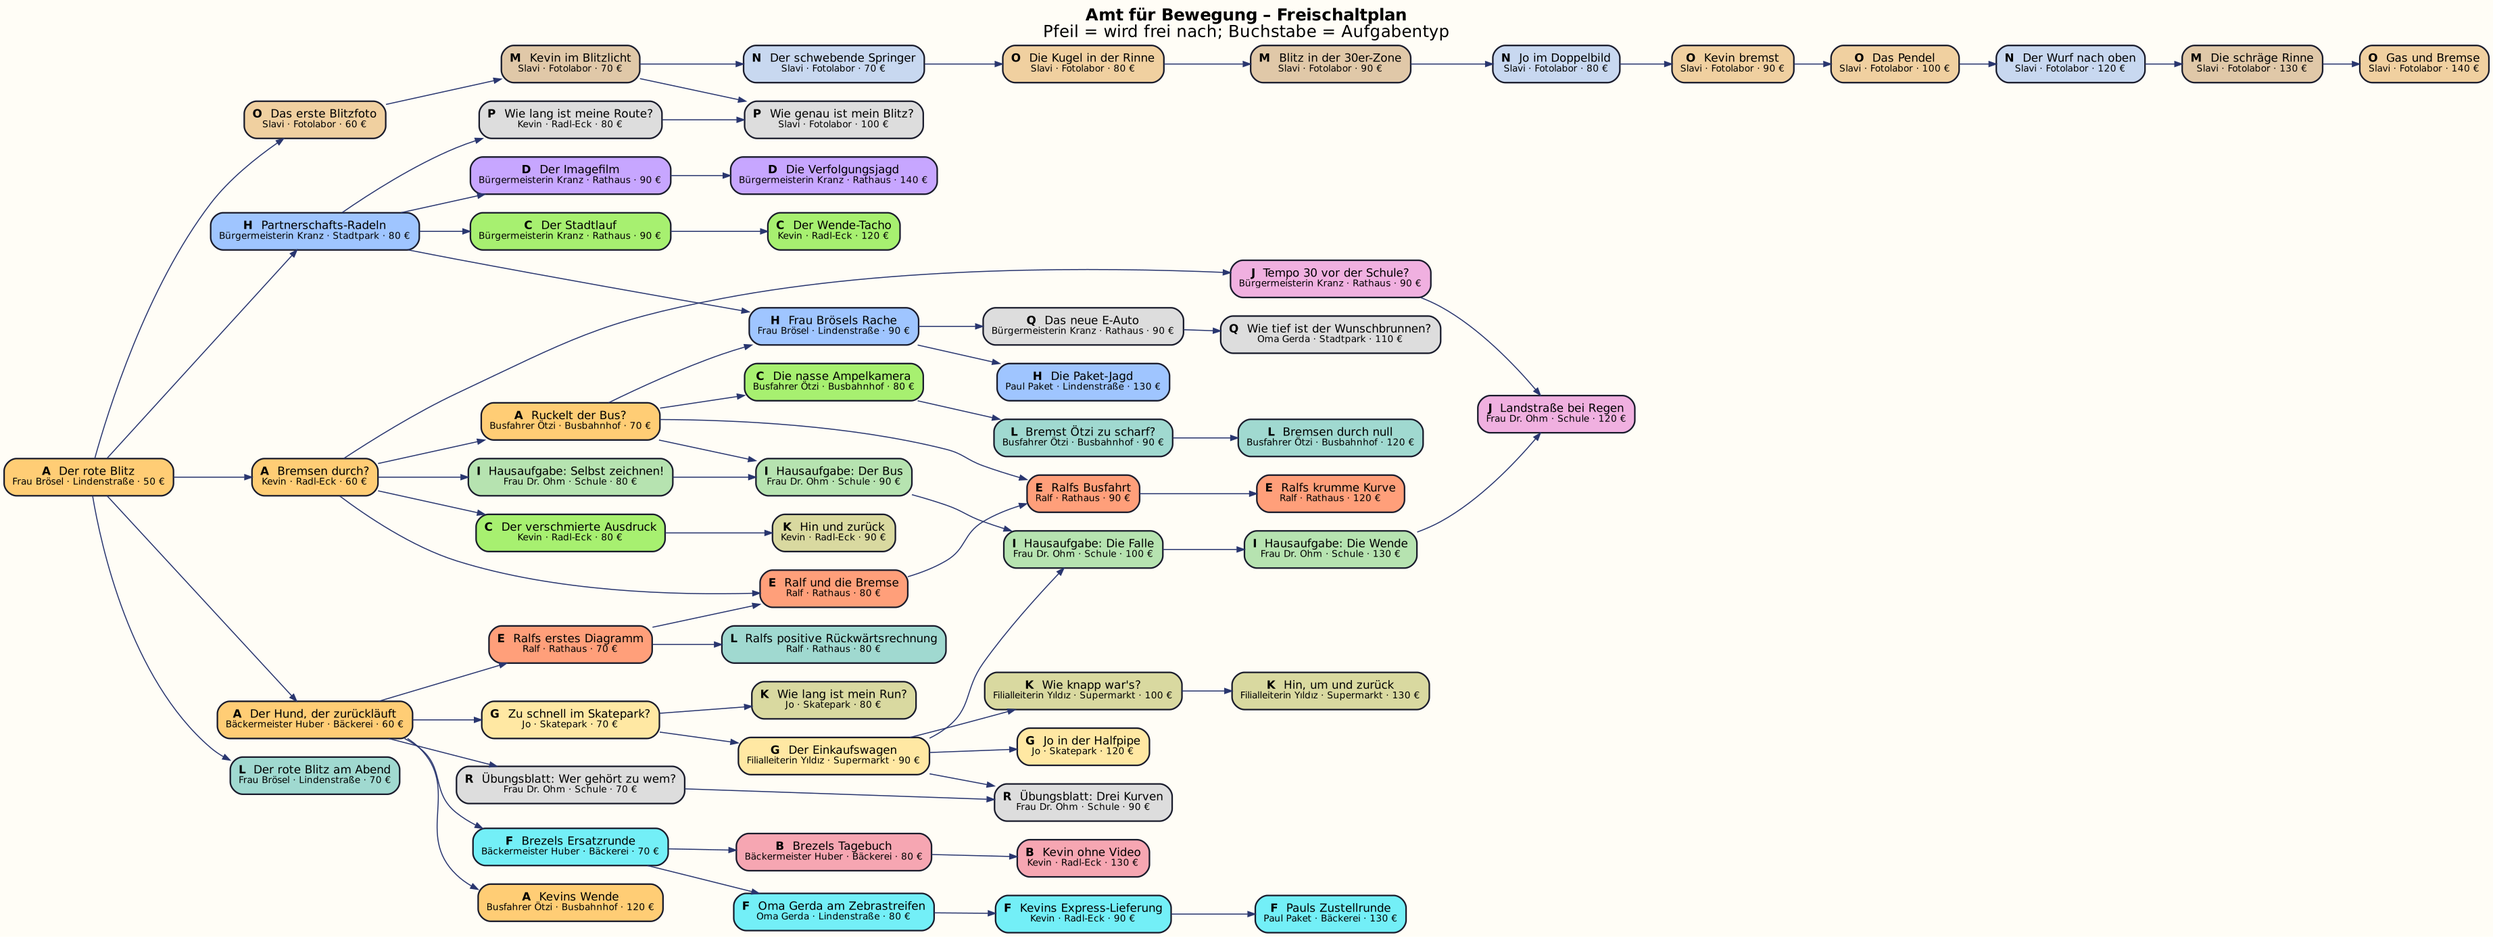
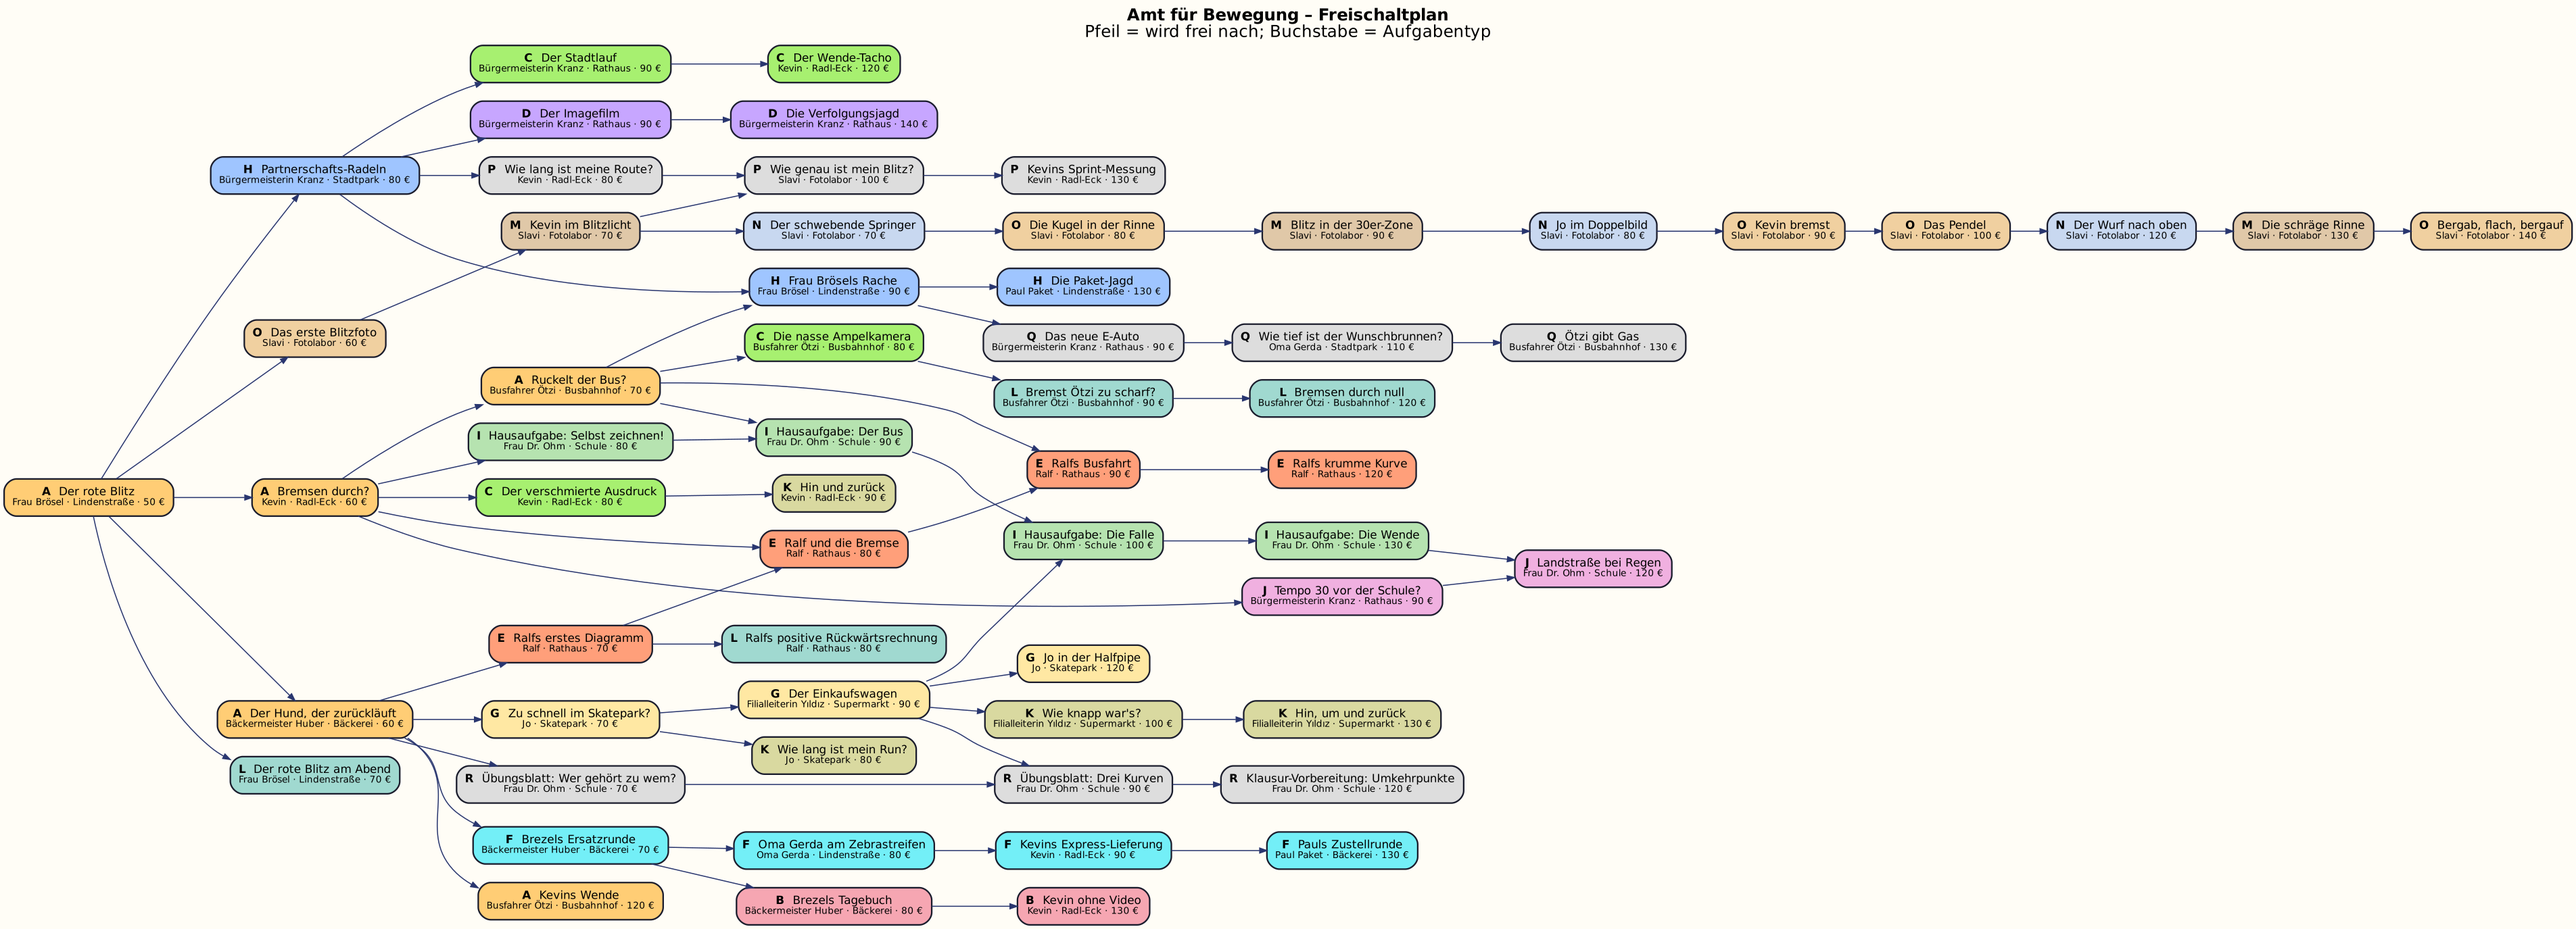
W31: Schwere Abschluss-Aufträge für P, Q, R (t60 Sprint-Messung, t61 Ötzi gibt Gas, t62 Umkehrpunkte), Doku
Claude-Session: https://claude.ai/code/session_01YJm9GvWdMK6dmGfHSmaVkh

Changed region(s): [[0.0, 0.0, 1.0, 1.0], [0.5925, 0.2138, 1.0, 0.2749], [0.0935, 0.336, 0.1559, 0.3971]]

diff --git a/docs/QUESTPLAN.md b/docs/QUESTPLAN.md
@@ -5,7 +5,7 @@
 > Buchstabe = Aufgabentyp (siehe Legende). PNG: `docs/questplan.png`.
 
 Startaufträge (sofort frei): Der rote Blitz.
-Anzahl Aufträge: 58, verdienbar: 5420 €.
+Anzahl Aufträge: 61, verdienbar: 5800 €.
 
 ```mermaid
 flowchart LR
@@ -60,13 +60,16 @@ flowchart LR
   t50_schwer_regie["<b>D</b> Die Verfolgungsjagd<br/><small>Bürgermeisterin Kranz · Rathaus · 140 €</small>"]:::tD
   t51_schwer_strobo_beschreiben["<b>N</b> Der Wurf nach oben<br/><small>Slavi · Fotolabor · 120 €</small>"]:::tN
   t52_schwer_strobo_rechnen["<b>M</b> Die schräge Rinne<br/><small>Slavi · Fotolabor · 130 €</small>"]:::tM
-  t53_schwer_strobo_bauen["<b>O</b> Gas und Bremse<br/><small>Slavi · Fotolabor · 140 €</small>"]:::tO
+  t53_schwer_strobo_bauen["<b>O</b> Bergab, flach, bergauf<br/><small>Slavi · Fotolabor · 140 €</small>"]:::tO
   t54_fehler_route["<b>P</b> Wie lang ist meine Route?<br/><small>Kevin · Radl-Eck · 80 €</small>"]:::tP
   t55_fehler_blitz["<b>P</b> Wie genau ist mein Blitz?<br/><small>Slavi · Fotolabor · 100 €</small>"]:::tP
   t56_formel_eauto["<b>Q</b> Das neue E-Auto<br/><small>Bürgermeisterin Kranz · Rathaus · 90 €</small>"]:::tQ
   t57_formel_brunnen["<b>Q</b> Wie tief ist der Wunschbrunnen?<br/><small>Oma Gerda · Stadtpark · 110 €</small>"]:::tQ
   t58_verbinden_uebung["<b>R</b> Übungsblatt: Wer gehört zu wem?<br/><small>Frau Dr. Ohm · Schule · 70 €</small>"]:::tR
   t59_verbinden_kurven["<b>R</b> Übungsblatt: Drei Kurven<br/><small>Frau Dr. Ohm · Schule · 90 €</small>"]:::tR
+  t60_schwer_fehlerbalken["<b>P</b> Kevins Sprint-Messung<br/><small>Kevin · Radl-Eck · 130 €</small>"]:::tP
+  t61_schwer_formel["<b>Q</b> Ötzi gibt Gas<br/><small>Busfahrer Ötzi · Busbahnhof · 130 €</small>"]:::tQ
+  t62_schwer_verbinden["<b>R</b> Klausur-Vorbereitung: Umkehrpunkte<br/><small>Frau Dr. Ohm · Schule · 120 €</small>"]:::tR
   t01_sportwagen --> t02_kevin
   t02_kevin --> t03_bus
   t01_sportwagen --> t04_brezel
@@ -132,6 +135,9 @@ flowchart LR
   t04_brezel --> t58_verbinden_uebung
   t58_verbinden_uebung --> t59_verbinden_kurven
   t08_einkaufswagen --> t59_verbinden_kurven
+  t55_fehler_blitz --> t60_schwer_fehlerbalken
+  t57_formel_brunnen --> t61_schwer_formel
+  t59_verbinden_kurven --> t62_schwer_verbinden
   classDef tA fill:#ffcd75,stroke:#1a1c2c,color:#1a1c2c
   classDef tB fill:#f6a6b2,stroke:#1a1c2c,color:#1a1c2c
   classDef tC fill:#a7f070,stroke:#1a1c2c,color:#1a1c2c
@@ -167,9 +173,9 @@ flowchart LR
 | M | Stroboskop: rechnen | 3 |
 | N | Stroboskop: beschreiben | 3 |
 | O | Stroboskop: bauen | 5 |
-| P | Fehlerbalken | 2 |
-| Q | Bewegungsformel | 2 |
-| R | Verbinden | 2 |
+| P | Fehlerbalken | 3 |
+| Q | Bewegungsformel | 3 |
+| R | Verbinden | 3 |
 
 ## Liste
 | Auftrag | Typ | von | Ort | Lohn | braucht |
@@ -225,10 +231,13 @@ flowchart LR
 | Die Verfolgungsjagd | D | Bürgermeisterin Kranz | Rathaus | 140 € | Der Imagefilm |
 | Der Wurf nach oben | N | Slavi | Fotolabor | 120 € | Das Pendel |
 | Die schräge Rinne | M | Slavi | Fotolabor | 130 € | Der Wurf nach oben |
-| Gas und Bremse | O | Slavi | Fotolabor | 140 € | Die schräge Rinne |
+| Bergab, flach, bergauf | O | Slavi | Fotolabor | 140 € | Die schräge Rinne |
 | Wie lang ist meine Route? | P | Kevin | Radl-Eck | 80 € | Partnerschafts-Radeln |
 | Wie genau ist mein Blitz? | P | Slavi | Fotolabor | 100 € | Wie lang ist meine Route?, Kevin im Blitzlicht |
 | Das neue E-Auto | Q | Bürgermeisterin Kranz | Rathaus | 90 € | Frau Brösels Rache |
 | Wie tief ist der Wunschbrunnen? | Q | Oma Gerda | Stadtpark | 110 € | Das neue E-Auto |
 | Übungsblatt: Wer gehört zu wem? | R | Frau Dr. Ohm | Schule | 70 € | Der Hund, der zurückläuft |
 | Übungsblatt: Drei Kurven | R | Frau Dr. Ohm | Schule | 90 € | Übungsblatt: Wer gehört zu wem?, Der Einkaufswagen |
+| Kevins Sprint-Messung | P | Kevin | Radl-Eck | 130 € | Wie genau ist mein Blitz? |
+| Ötzi gibt Gas | Q | Busfahrer Ötzi | Busbahnhof | 130 € | Wie tief ist der Wunschbrunnen? |
+| Klausur-Vorbereitung: Umkehrpunkte | R | Frau Dr. Ohm | Schule | 120 € | Übungsblatt: Drei Kurven |

diff --git a/docs/VERLAUF.md b/docs/VERLAUF.md
@@ -41,7 +41,8 @@ Hinweis: Sitzung 1 wurde nachträglich aus einer Zusammenfassung des Chats rekon
 | W28 | Sitzung 3, Playtest-Sammelpunkte: ±-Knopf an allen Zahlenfeldern; Aufgaben passen nicht aufs Handy quer (Hinweise kleiner, Diagramme/Beschriftung größer, Scroll-Pfeile); F: Geschwindigkeiten vorher ausrechnen, Knopf „halbe Geschwindigkeit“, späte F nur Eckpunkte; B viel kulanter (Finger 1,5 cm); eine Reaktions-Aufgabe streichen (t21); Karte: Bewegung umlenken; Umbenennung „Gültige-Ziffern-Polizei“; einmaliges Lob nach 2. Verwarnung | c9704c5, 761f5f9, 199ff04, (dieser Commit) |
 | W29 | Playtest-Runde 2 je Auftrag (t10–t53): Hinweise korrigiert (t10, t20, t23, t37, t40, t41, t51, t52), t20 „Letzte Hausaufgabe“ → „Neue“, Diagramme auf dem Handy größer (Einheiten = echte Pixelhöhe), Freihand ±1,5 cm, t35 durchgehender Maßstab mit ganzzahligem Abstand, t37 Abbilder als Fahrräder, Pendel/senkrechte Fotos kleiner, N: Zusammenhang rechts über den Antworten, Einstufungen eingetragen | (dieser Commit) |
 | W30 | Drei neue Typen: **P Fehlerbalken** (Größt-/Kleinstwert mit verschiebbaren Whiskern, keine g.Z.; t54 Strecken addieren, t55 v_max/v_min), **Q Bewegungsformel** (umstellen, ausrechnen; t56 E-Auto, t57 Brunnen mit Startwert), **R Verbinden** (3 t-x ↔ 3 t-vₓ per Fingerlinie; t58, t59). t53 schwerer (bergab, flach, bergauf). Ab jetzt per Du | 22983a0, 1c3e2ce, 230882c, (dieser Commit) |
+| W31 | Schwere Abschluss-Aufträge auch für P, Q, R: t60 Kevins Sprint (a = 2s/t², t im Quadrat), t61 Ötzi gibt Gas (x = v₀t + ½at² nach a), t62 Umkehrpunkte (R). Ideen für zwei weitere Typen gewünscht: Rechnen mit der zeitunabhängigen Gleichung + etwas Kreatives | (dieser Commit) |
 
 **Stand Ende Sitzung 2:** 53 Aufträge (A–O, je ein schwerer), 4950 € verdienbar, Shop 23 Gegenstände für 2265 €. Offen: siehe `ROADMAP.md` und `PLAYTEST.md`.
 
-**Stand Sitzung 3 (W30):** 58 Aufträge (A–R), 5420 € verdienbar.
+**Stand Sitzung 3 (W31):** 61 Aufträge (A–R), 5800 € verdienbar.

diff --git a/docs/ROADMAP.md b/docs/ROADMAP.md
@@ -3,12 +3,12 @@
 Stand: 23.10.2026, Sitzung 3 (W30). Reihenfolge offen, Herr Messner entscheidet.
 
 ## Offene Entscheidungen (bitte nicht eigenmächtig festlegen)
-- Bekommen P, Q, R auch einen schweren Abschluss-Auftrag wie alle anderen Typen?
+- Neue Typen S (Unfallgutachten, v₁² − v₀² = 2·a·Δx) und T (Puppenspieler oder Ralfs Zeitungsartikel) vorgeschlagen [W31] – Herr Messner wählt
 
 ## Nächste Schritte (Sitzung 3)
 - Playtest-Feedback einarbeiten (Liste in `docs/PLAYTEST.md`), Einstufungen als `difficulty` eintragen
 - **D Regie**: 2 weitere Aufträge, sobald „Der Imagefilm“ abgenommen ist
-- **Balancing**: Shop 2265 € vs. verdienbar 5420 € → mehr Gegenstände oder höhere Preise (Herr Messner entscheidet)
+- **Balancing**: Shop 2265 € vs. verdienbar 5800 € → mehr Gegenstände oder höhere Preise (Herr Messner entscheidet)
 - `difficulty` soll später Lohn und Toleranz steuern (noch ohne Wirkung)
 - Optional: Rennmotorrad sichtbar unter dem Baumhaus parken (bisher nur Helm im Zimmer)
 - Finale-Länge (~1 min) nach Playtest anpassen
@@ -18,7 +18,7 @@ Stand: 23.10.2026, Sitzung 3 (W30). Reihenfolge offen, Herr Messner entscheidet.
 - Danach: Feld `difficulty` (leicht/mittel/schwer) pro Ticket → Lohn und Toleranz
 
 ## Geplant
-- **Balancing Shop** nach Playtest: 23 Gegenstände für 2265 €, verdienbar 5420 € [W24/W26]
+- **Balancing Shop** nach Playtest: 23 Gegenstände für 2265 €, verdienbar 5800 € [W24/W26]
 - **Teil 2 (2D):** waagrechter und schiefer Wurf, grafische Vektoraddition. Engine kann 2D schon (`until: landing`, Vektoren `[x, y]`, Diagrammarten `yt`, `vyt`, `ayt`).
 - **Druck-Arbeitsblatt** (passend zur Papierstütze)
 - Stimme **frau_jung**

diff --git a/docs/PLAYTEST.md b/docs/PLAYTEST.md
@@ -61,7 +61,7 @@
 - K: Wie lang ist mein Run?
 - D: Der Imagefilm (Testauftrag; danach 2 weitere D-Aufträge bauen)
 - schwer: t43, t48, t50, t53 (neu) und t45 (nochmal)
-- neue Typen [W30]: P t54, t55 · Q t56, t57 · R t58, t59
+- neue Typen [W30, W31]: P t54, t55, t60 (schwer) · Q t56, t57, t61 (schwer) · R t58, t59, t62 (schwer)
 - Gültige-Ziffern-Polizei: Lob nach ≥ 2 Verwarnungen
 - Systeme: Pakete/Kiste, Bärti, Rennrad/Motorrad auf der Karte, Finale am Bauplatz, Auftragsbuch-Animation, Weiter-Tippen nach dem Lösen
 
